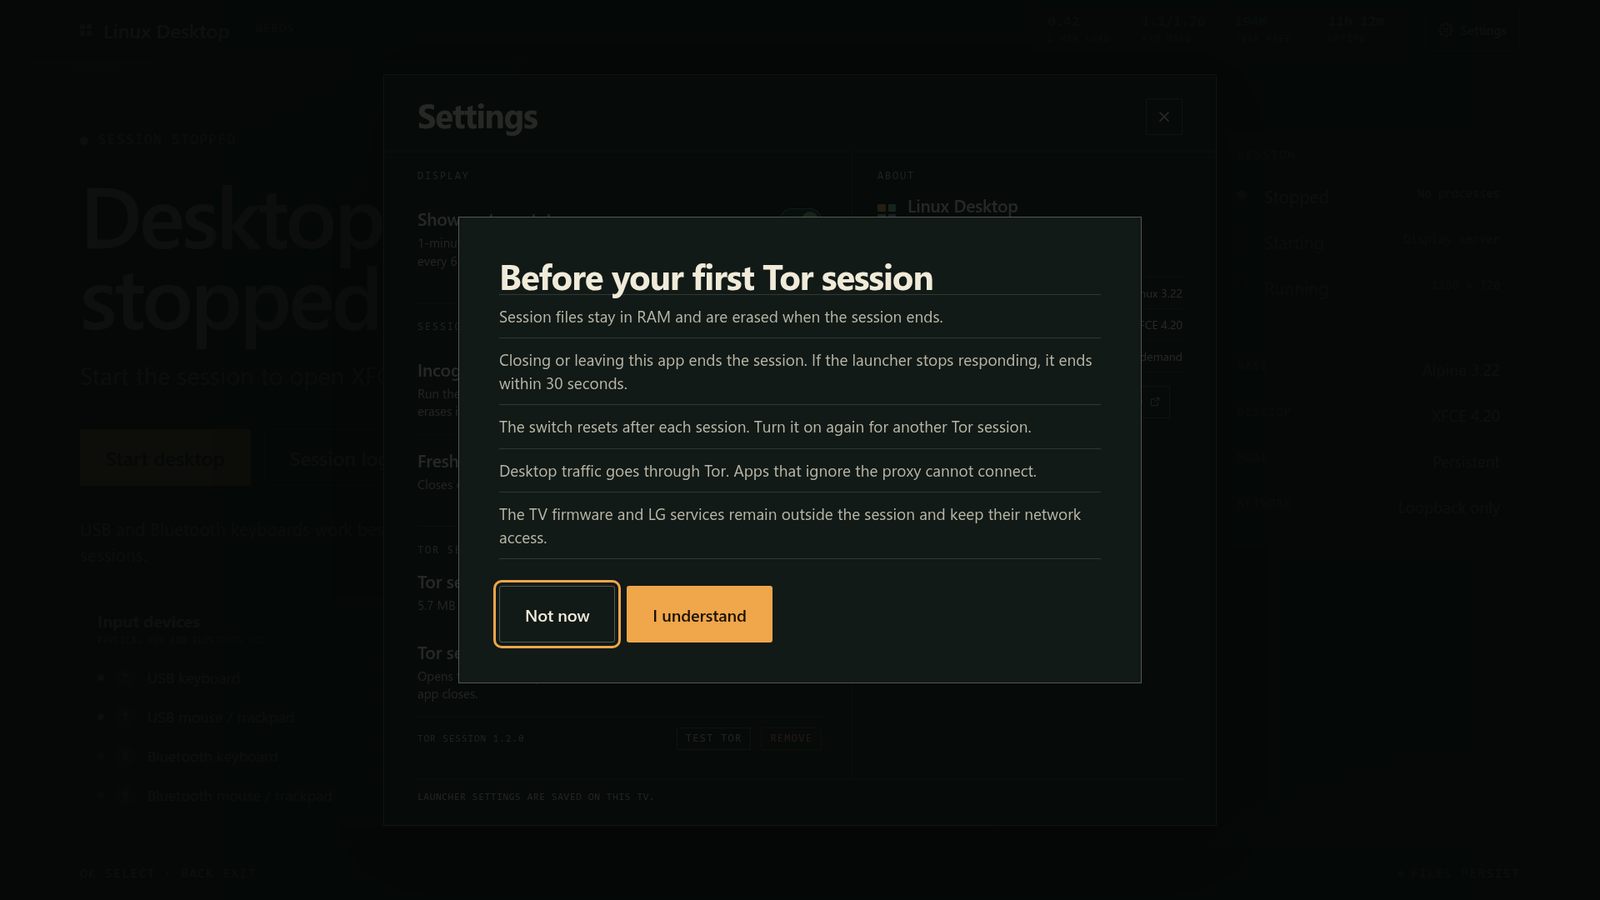
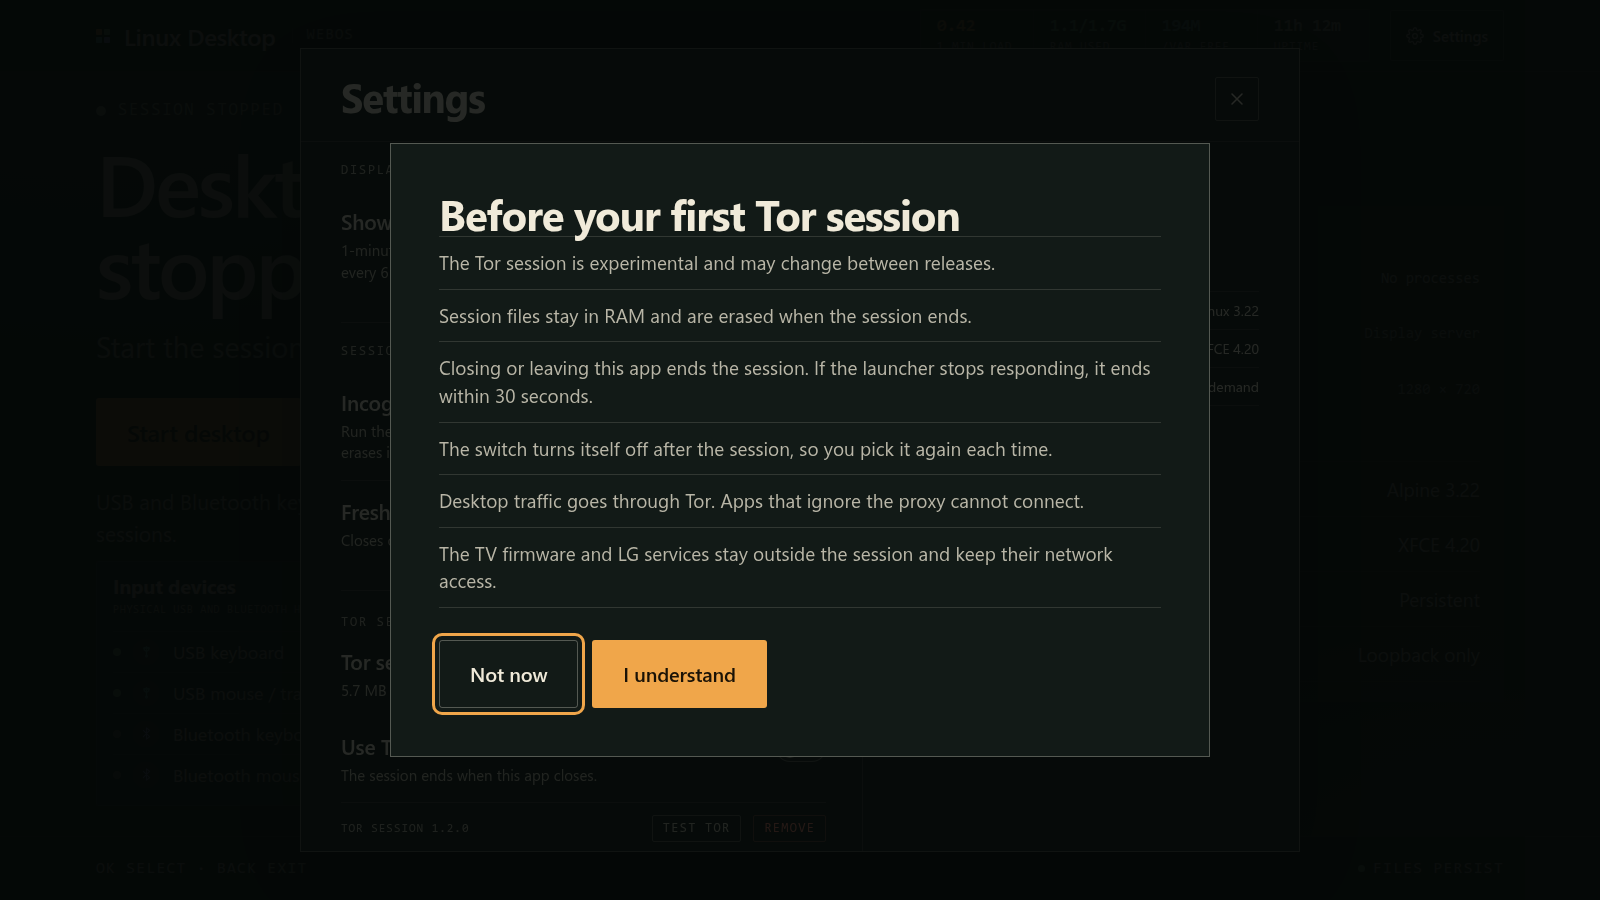
Label the Tor session experimental and remove personal attribution

diff --git a/webos-app/index.html b/webos-app/index.html
@@ -165,7 +165,7 @@ session.</h1>
       <h2 id="tails-telemetry-title">This TV still collects data.</h2>
       <p class="confirm-copy" id="tails-telemetry-copy">LG data collection is not fully off. Check these before your first Tor session.</p>
       <ul class="data-list" id="tails-telemetry-list"></ul>
-      <p class="confirm-extra">Turn them off under Settings &rarr; General on the TV. Tor routes desktop traffic only. The TV firmware can still see the screen.</p>
+      <p class="confirm-extra">Turn them off under Settings &rarr; General on the TV. Tor covers desktop traffic only, and the TV firmware can still see the screen.</p>
       <div class="confirm-actions">
         <button class="btn btn-secondary" id="tails-telemetry-cancel" data-focusable>Go back</button>
         <button class="btn btn-primary" id="tails-telemetry-continue" data-focusable>Continue anyway</button>
@@ -177,11 +177,12 @@ session.</h1>
     <div class="confirm-panel confirm-panel--wide">
       <h2 id="tails-notice-title">Before your first Tor session</h2>
       <ul class="notice-list">
+        <li>The Tor session is experimental and may change between releases.</li>
         <li>Session files stay in RAM and are erased when the session ends.</li>
         <li>Closing or leaving this app ends the session. If the launcher stops responding, it ends within 30 seconds.</li>
-        <li>The switch resets after each session. Turn it on again for another Tor session.</li>
+        <li>The switch turns itself off after the session, so you pick it again each time.</li>
         <li>Desktop traffic goes through Tor. Apps that ignore the proxy cannot connect.</li>
-        <li>The TV firmware and LG services remain outside the session and keep their network access.</li>
+        <li>The TV firmware and LG services stay outside the session and keep their network access.</li>
       </ul>
       <div class="confirm-actions">
         <button class="btn btn-secondary" id="tails-notice-cancel" data-focusable>Not now</button>
@@ -233,18 +234,18 @@ session.</h1>
       </section>
 
       <section class="settings-group settings-group--tails" aria-labelledby="settings-tails">
-        <h3 id="settings-tails">Tor session</h3>
+        <h3 id="settings-tails">Tor session <span class="section-tag">Experimental</span></h3>
         <div class="tails-head">
           <div class="tails-copy">
             <p class="setting-name" id="tails-name">Not installed</p>
-            <p class="setting-note" id="tails-note">A Tor-only desktop that lives in RAM and ends when you leave this app.</p>
+            <p class="setting-note" id="tails-note">A desktop with all traffic through Tor. Session files stay in RAM and go away when you leave this app.</p>
           </div>
           <button class="btn btn-small" id="tails-install" data-focusable>Install</button>
         </div>
         <button class="setting" type="button" data-setting="tails" role="switch" aria-checked="false" data-focusable id="tails-setting" hidden>
           <span class="setting-copy">
-            <span class="setting-name">Tor session <span class="setting-tag">RAM only</span></span>
-            <span class="setting-note">Opens the Tor desktop on the next start. It ends when this app closes.</span>
+            <span class="setting-name">Use Tor on the next start <span class="setting-tag">RAM only</span></span>
+            <span class="setting-note">The session ends when this app closes.</span>
             <span class="setting-note setting-note--accent" id="tails-hint" hidden></span>
           </span>
           <span class="switch" aria-hidden="true"><span class="switch-thumb"></span></span>
@@ -266,14 +267,14 @@ session.</h1>
             <p class="about-version"><span id="about-launcher">Launcher 1.2.0</span><span class="about-sep">·</span><span id="about-runtime">Runtime checking</span></p>
           </div>
         </div>
-        <p class="about-copy">Built by Patel Thakkar.</p>
+        <p class="about-copy">Built by the Linux Desktop contributors.</p>
         <dl class="about-facts">
           <div><dt>Base</dt><dd>Alpine Linux 3.22</dd></div>
           <div><dt>Desktop</dt><dd>XFCE 4.20</dd></div>
           <div><dt>Session</dt><dd>On demand</dd></div>
         </dl>
         <button class="about-link about-link--source" id="about-source" data-focusable>
-          <span>github.com/patelthakkar/<wbr>webos-linux-desktop</span>
+          <span>Source on GitHub</span>
           <svg class="icon" viewBox="0 0 24 24" aria-hidden="true"><path d="M14 4h6v6"/><path d="M20 4l-8 8"/><path d="M18 13v5a2 2 0 0 1-2 2H6a2 2 0 0 1-2-2V8a2 2 0 0 1 2-2h5"/></svg>
         </button>
       </section>

diff --git a/webos-app/app.js b/webos-app/app.js
@@ -497,12 +497,12 @@ function applyTails() {
   if (tailsError) {
     tailsNote.textContent = tailsError;
   } else if (tailsInstalling) {
-    tailsNote.textContent = 'Downloading and checking the Tor session. This happens once.';
+    tailsNote.textContent = 'Downloading and checking the Tor layer. This happens once.';
   } else if (installed) {
     const size = formatBytes(tails.bytes);
-    tailsNote.textContent = `${size ? `${size} · ` : ''}Tor-only desktop. Session files stay in RAM.`;
+    tailsNote.textContent = `${size ? `${size} · ` : ''}Experimental. Session files stay in RAM.`;
   } else {
-    tailsNote.textContent = 'A Tor-only desktop that lives in RAM and ends when you leave this app.';
+    tailsNote.textContent = 'A desktop with all traffic through Tor. Session files stay in RAM and go away when you leave this app.';
   }
   tailsInstall.hidden = installed;
   tailsInstall.disabled = tailsInstalling;
@@ -518,9 +518,9 @@ function applyTails() {
     tailsHint.hidden = true;
   } else {
     tailsHint.hidden = false;
-    if (tailMode) tailsHint.textContent = 'This session is in RAM. Closing the app ends it and erases it.';
-    else if (active) tailsHint.textContent = 'Stop the current session first. The Tor session starts next time.';
-    else tailsHint.textContent = 'The next start opens a Tor session. The switch resets afterwards.';
+    if (tailMode) tailsHint.textContent = 'This session is in RAM. Closing the app ends it and wipes it.';
+    else if (active) tailsHint.textContent = 'Stop the current session first. Tor starts next time.';
+    else tailsHint.textContent = 'The next start will use Tor. The switch turns off after that.';
   }
   if (!installed) {
     tailsNetState.textContent = '';
@@ -767,7 +767,7 @@ function updateModeUI() {
   persistNote.classList.toggle('is-incognito', Boolean(incognito));
   persistNote.classList.toggle('is-tails', Boolean(tailsMode));
   if (state.name === 'running') {
-    if (tailsMode) hint.textContent = 'Closing this app ends the Tor session and erases its files.';
+    if (tailsMode) hint.textContent = 'Closing this app ends the Tor session and wipes its files.';
     else if (incognito) hint.textContent = 'Closing this app leaves the incognito session running in RAM until you stop it.';
   }
   updateIncognitoHint();
@@ -783,7 +783,7 @@ function render() {
   lede.textContent = state.detail || current.lede;
   let hintText = state.hint || current.hint;
   if (state.name === 'running' && stats && stats.mode === 'tails') {
-    hintText = 'Closing this app ends the Tor session and erases its files.';
+    hintText = 'Closing this app ends the Tor session and wipes its files.';
   } else if (state.name === 'running' && stats && stats.mode === 'incognito') {
     hintText = 'Closing this app leaves the incognito session running in RAM until you stop it.';
   }
@@ -1117,7 +1117,7 @@ function openStopConfirm(reason = 'stop') {
     : 'Open applications will close. Save your work before continuing.';
   const extra = [];
   if (fresh) extra.push('A clean session starts after the current one closes.');
-  if (tailsMode) extra.push('Stopping erases the session files in RAM and turns off the Tor session switch.');
+  if (tailsMode) extra.push('Stopping wipes the session files in RAM and turns off the Tor session switch.');
   else if (incognito) extra.push('This session is in RAM. Stopping it erases its files and changes.');
   confirmExtra.textContent = extra.join(' ');
   confirmExtra.hidden = !extra.length;

diff --git a/webos-app/styles.css b/webos-app/styles.css
@@ -623,6 +623,17 @@ h1 {
   letter-spacing: 0.14em;
   text-transform: uppercase;
 }
+.section-tag {
+  display: inline-block;
+  margin-left: 8px;
+  padding: 3px 6px;
+  border: 1px solid rgba(240, 166, 74, 0.45);
+  border-radius: 2px;
+  color: var(--amber);
+  font: 10px/1 var(--mono);
+  letter-spacing: 0.1em;
+  vertical-align: 2px;
+}
 .setting {
   display: flex;
   align-items: flex-start;
